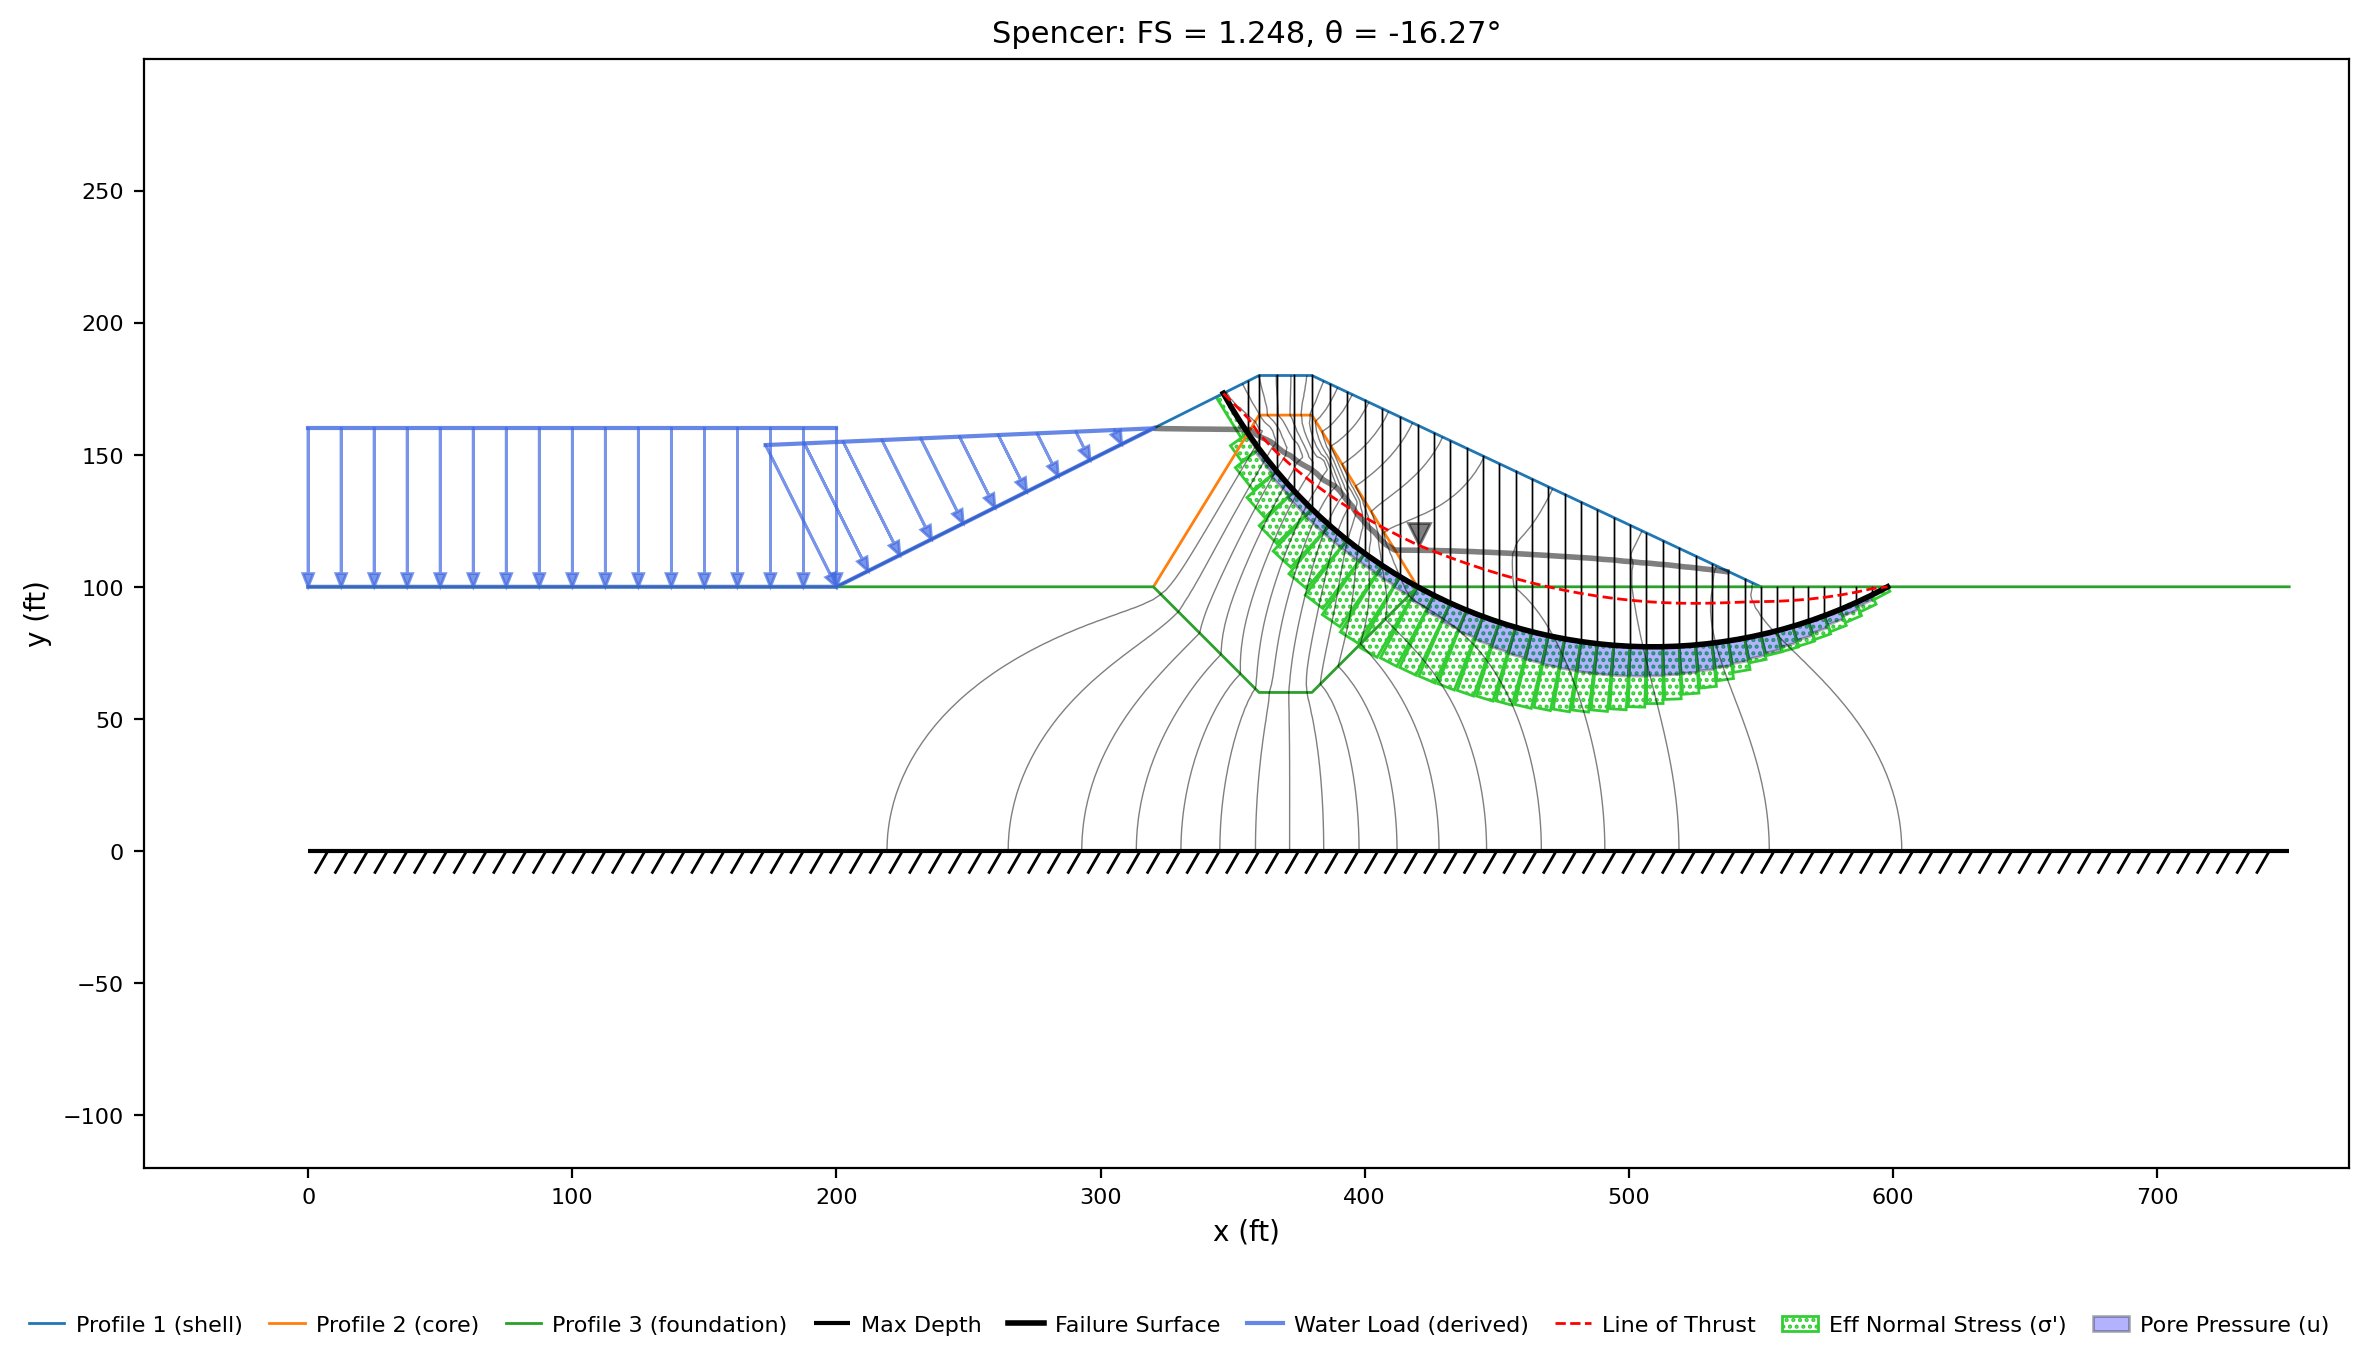
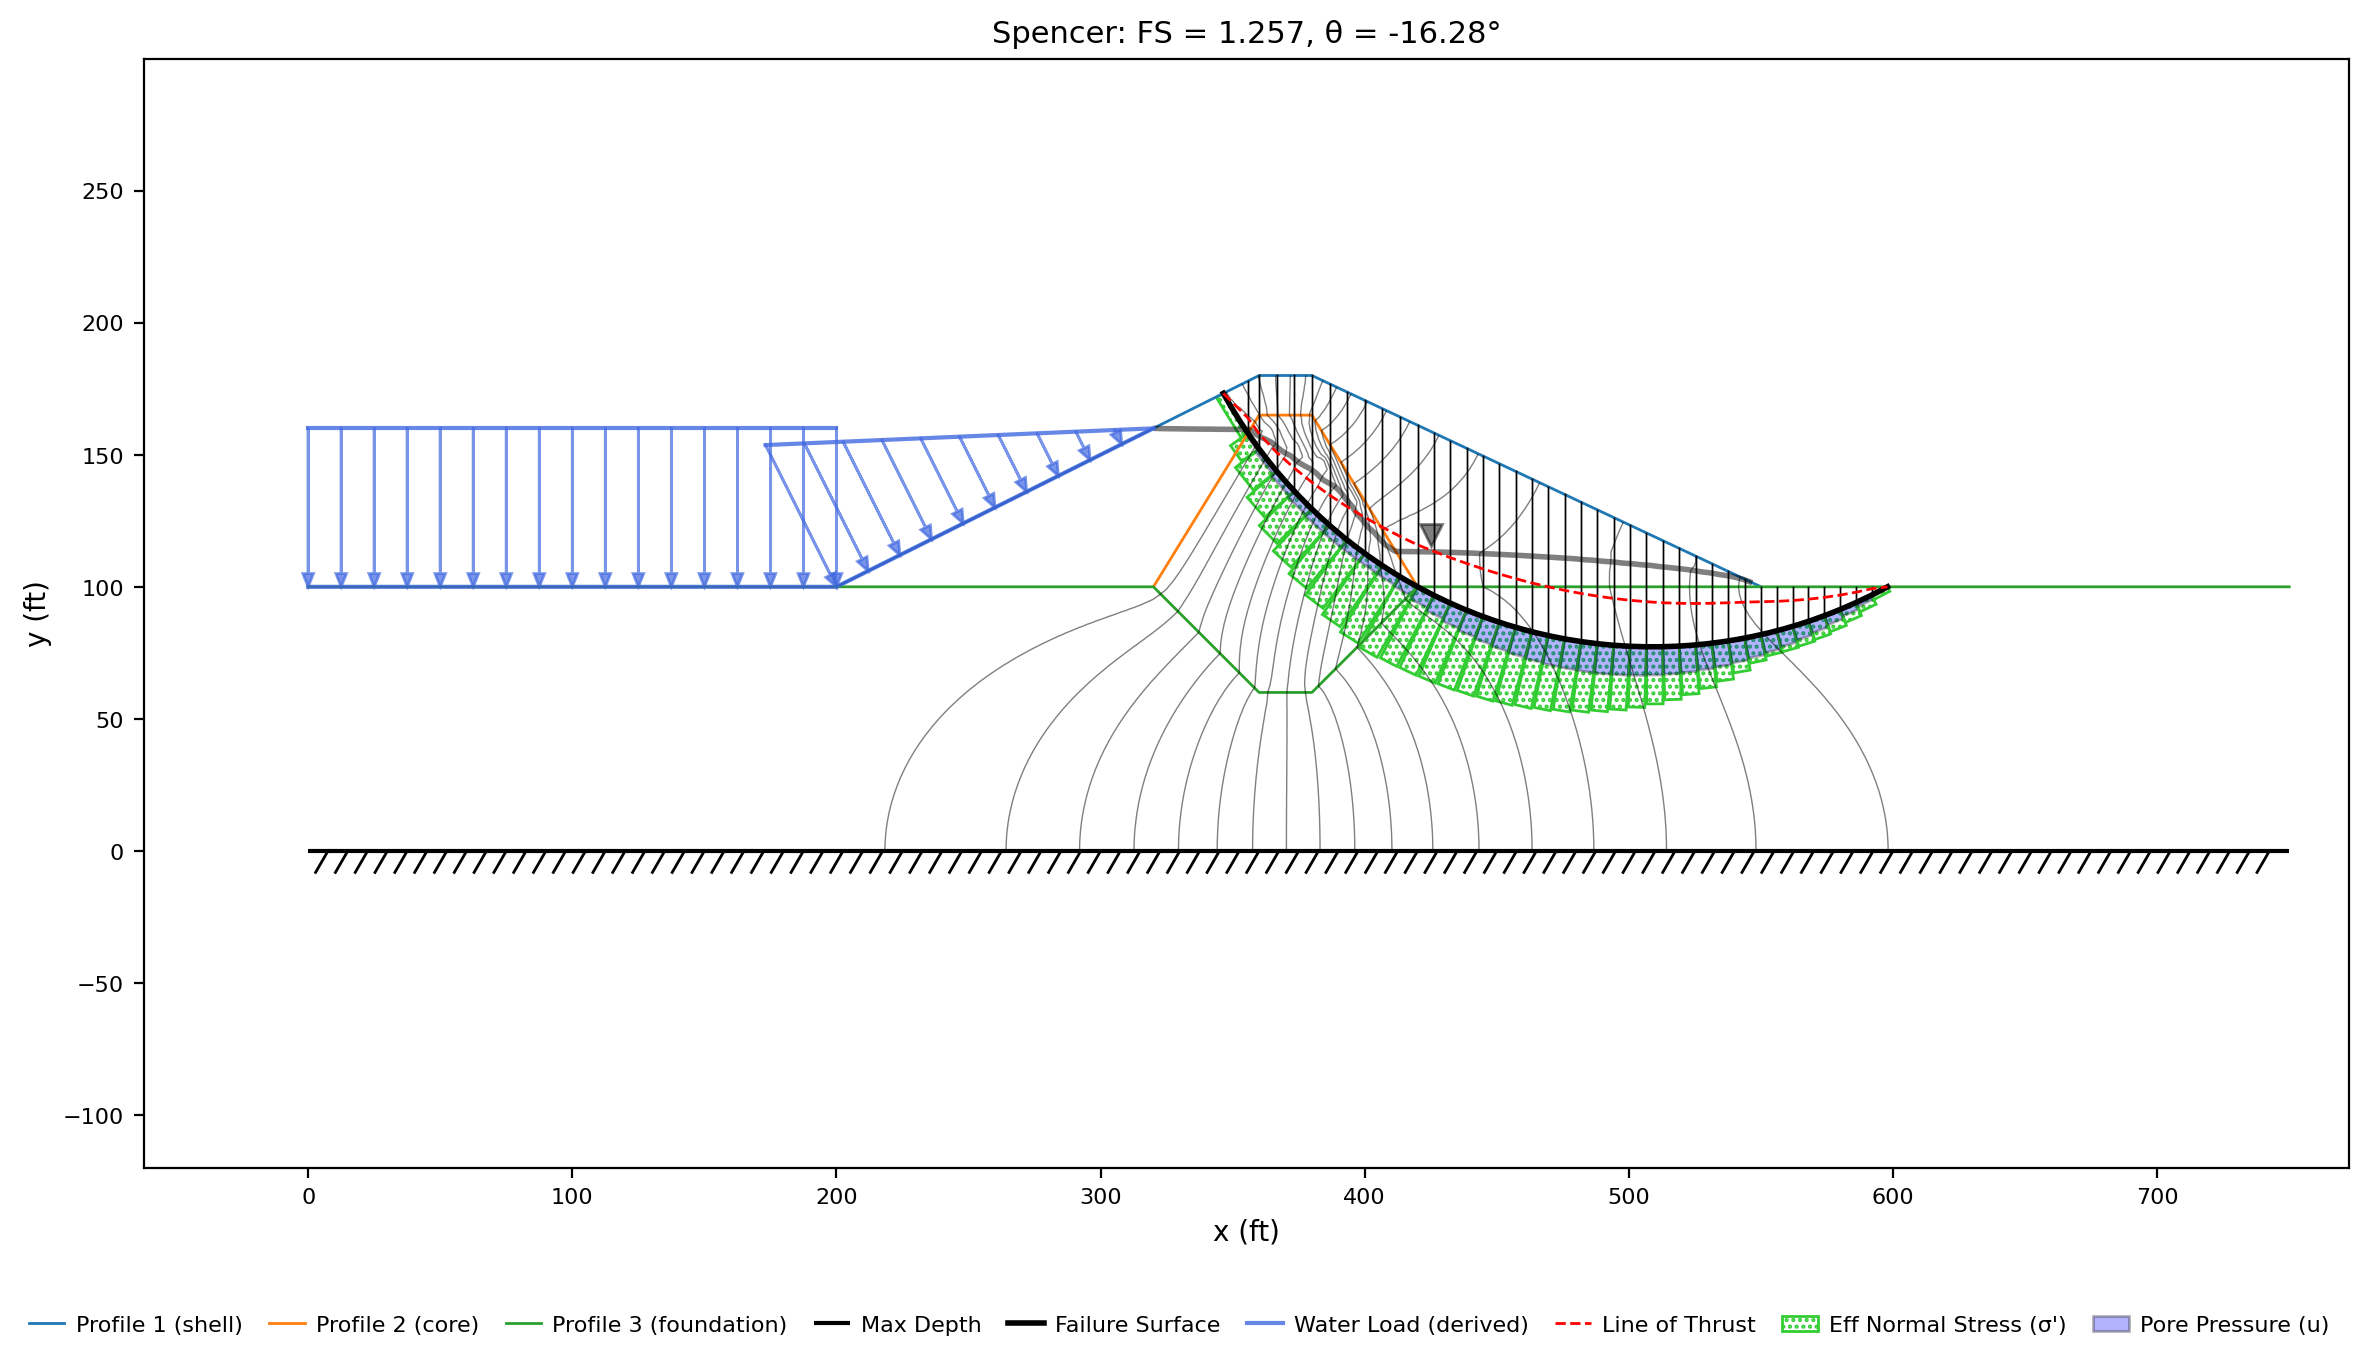
tutorial(combo01): the three runs as the current solver makes them
The seepage discharge, Spencer's search and the strength reduction are the
values the page's own producers print, with the figures and the log excerpts
from the same runs. The tensile cutoff stays blank on all three materials, and
the reason is stated for what it is: the solved field leaves the free
downstream face at zero pore pressure, so a zero cutoff returns the same
factor of safety.

Claude-Session: https://claude.ai/code/session_01XjjT2aBxw8gY7EFdpoUcpj

diff --git a/docs/tutorials/combo01_seepage_stability.md b/docs/tutorials/combo01_seepage_stability.md
@@ -134,22 +134,22 @@ seepage dialog. Click **Run → Run Seep…**
 The **Model checks** panel carries the preflight report for this run, and on this
 model it reports **No problems found for this run.** Leave **Convergence tol** at
 `0.0001` and **Max iterations** at `400`, and click **Run**. The unconfined
-iteration settles in **26 sweeps**, and the run is over almost as soon as it
+iteration settles in **27 sweeps**, and the run is over almost as soon as it
 starts. The Log pane's closing lines carry the last sweep and the convergence it
 reached:
 
 ```text
-Iteration 25: residual = 9.822325e-04, closure = 1.038e-03, relax = 0.500, 0/52 exit face active
-Converged in 26 iterations (residual = 6.971e-04, closure = 6.404e-04, exit face stable)
-Flow closure check: inflow = 1.525146e-08, outflow = -0.000000e+00, error = 1.525146e-08
+Iteration 25: residual = 1.068477e-03, closure = 1.361e-03, relax = 0.500, 1/52 exit face active
+Converged in 27 iterations (residual = 6.151e-04, closure = 2.995e-04, exit face stable)
+Flow closure check: inflow = 6.480799e-01, outflow = 6.480799e-01, error = 2.801829e-08
 ```
 
 ![The seepage solution](images/combo01_seepage.png){width=1000}
 
-**The total discharge is 1.925 ft³/day per ft** — per foot of dam measured along
+**The total discharge is 1.948 ft³/day per ft** — per foot of dam measured along
 its axis, the convention every quantity a two-dimensional analysis reports
 carries. (In [SEEP-2](seep02_johnson_dam.md#running-the-analysis) the same model
-on a linear mesh at 6.25 ft gives 1.9546; the 1.5% between the two is the mesh,
+on a linear mesh at 6.25 ft gives 1.9546; the 0.3% between the two is the mesh,
 not the physics.) The head runs from 100.000 ft to 160.000 ft, the two boundary
 values and nothing outside them, and the heavy black line is the **phreatic
 surface** — the locus of points where the pore pressure passes through zero,
@@ -194,7 +194,7 @@ Leaving a material on anything else costs a measurable amount, because the
 seepage run computes the same field either way and says nothing about who reads
 it. With all three materials set to `none` instead, on this same mesh and this
 same solved field, the Spencer search below returns **FS = 1.618** against the
-1.248 it returns at `seep` — 29.7% higher, on a shallower circle the search
+1.257 it returns at `seep` — 28.7% higher, on a shallower circle the search
 prefers once the water is gone. The seepage analysis still ran, converged and
 reported its discharge; the stability run never read it, and every slice base
 took zero pore pressure.
@@ -233,16 +233,16 @@ The Log pane follows the search. Its last two refinement steps and its closing
 lines read:
 
 ```text
-[🔁 iteration 11] center=(508.96, 262.80), FS=1.2481, grid=1.4927
-[🔁 iteration 12] center=(508.96, 262.80), FS=1.2481, grid=0.7463
-[✅ converged] Iter=12, FS=1.2481 (ΔFS<0.0005) at (x=508.96, y=262.80, depth=77.28)
-Critical FS = 1.248
+[🔁 iteration 11] center=(508.96, 262.80), FS=1.2571, grid=1.4927
+[🔁 iteration 12] center=(508.96, 262.80), FS=1.2571, grid=0.7463
+[✅ converged] Iter=12, FS=1.2571 (ΔFS<0.0005) at (x=508.96, y=262.80, depth=77.28)
+Critical FS = 1.257
 Sliding mass = 1,284,328.7 lb/ft over 290.62 ft of failure surface
 ```
 
 ![Spencer's critical circle](images/combo01_lem_solution.png){width=1000}
 
-**Spencer's method gives FS = 1.248** on a circle centered at (508.96, 262.80)
+**Spencer's method gives FS = 1.257** on a circle centered at (508.96, 262.80)
 with a radius of 185.52 ft. It enters the upstream face at x = 346.5, elevation
 173.2 — above the reservoir and 6.8 ft below the crest — cuts down through the
 core, crosses into the foundation where the core pinches out at x = 420, bottoms
@@ -253,9 +253,9 @@ the 12 refinement steps the log counts.
 The seepage solution shows up twice on this figure. The thin gray contours
 behind the section are the solved total head, and the pale blue band under the
 failure surface is the **pore pressure on each slice base**, interpolated from
-that field: read off the slice table's `u` column it runs from 0 to 2,044 psf
-across the 40 slices, largest where the surface is deepest and zero on the slices
-that lie above the phreatic surface. The green hatched band above it is the
+that field: read off the slice table's `u` column it runs from 0 to 2,002 psf
+across the 40 slices, largest where the surface is deepest and zero on the one
+slice that lies above the phreatic surface. The green hatched band above it is the
 effective normal stress the strength was computed from, which is that base's
 total normal stress less the blue.
 
@@ -276,12 +276,11 @@ immediately.
 one carry tension up to its Mohr-Coulomb apex; in
 [FEM-1](fem01_strength_reduction.md#running-the-strength-reduction) we work
 through what that cap is and when it matters. The column is left blank on this
-model on purpose: with a zero cutoff the toe of the downstream shell, where the
-fill tapers to nothing against the foundation, has no stress state that both
-carries no tension and stays in equilibrium, so the shell's own Mohr-Coulomb
-envelope limits the tension there instead — the 142.8 psf the warning names —
-and the answer the run gives is checked against Spencer's 1.248 on the same
-section.
+model, and on this dam that choice does not move the answer: the solved field
+leaves the free downstream face at zero pore pressure, so no part of the section
+needs tension to stay in equilibrium, and a zero cutoff entered on all three
+materials returns the same factor of safety. What the run gives is checked
+against Spencer's 1.257 on the same section.
 
 Everything else opens on the defaults this run wants. **Analysis** is **SSRM
 (find FS)**, the strength reduction: it divides both Mohr-Coulomb strength
@@ -296,8 +295,8 @@ solve and the search before it.
 
 ![Shear strain at failure](images/combo01_fem_shear.png){width=1000}
 
-**Strength reduction gives FS = 1.2305**, the midpoint of the final bracket
-[1.2266, 1.2344] after seven bisection steps. The shear strain field above is the
+**Strength reduction gives FS = 1.2461**, the midpoint of the final bracket
+[1.2422, 1.2500] after seven bisection steps. The shear strain field above is the
 mechanism the run found, and nothing about a surface was assumed to find it: the
 band of straining soil is wherever the model put it.
 
@@ -334,7 +333,7 @@ will read it again. [Stale results and the mesh](../studio/editing.md#stale-resu
 states the rule in full. The practical effect is that the three answers on this
 page cannot silently belong to three different models.
 
-The two factors of safety are 1.248 and 1.2305, 1.4% apart, on the same
+The two factors of safety are 1.257 and 1.2461, 0.9% apart, on the same
 mechanism: a deep surface from the upstream face just below the crest, down
 through the core and the downstream shell, into the foundation and out beyond the
 toe. They are independent routes to it — the search prescribes a circular surface
@@ -352,8 +351,8 @@ This tutorial covered:
 - One quadratic mesh for all three analyses, chosen for the strictest of them.
 - A seepage run that leaves a pore pressure at every mesh node.
 - The materials table's `u` column: `seep` reads that field, `none` ignores it
-  (Spencer 1.618 instead of 1.248).
-- Spencer 1.248 and strength reduction 1.2305 from the same model and field,
+  (Spencer 1.618 instead of 1.257).
+- Spencer 1.257 and strength reduction 1.2461 from the same model and field,
   with nothing exported or retyped.
 - Results go stale when the inputs they depend on change.
 
